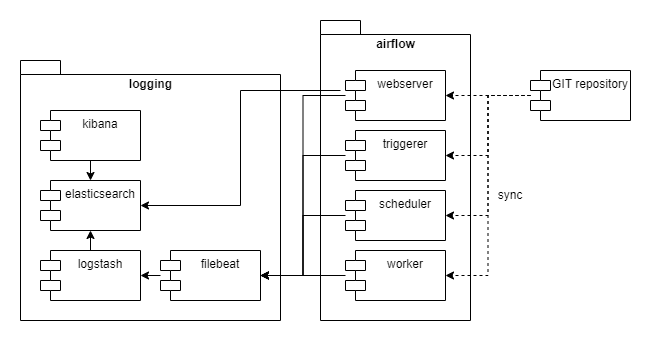
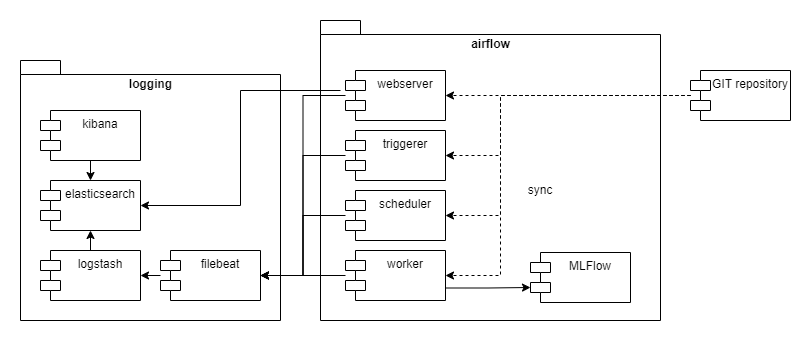
chore: Update deployment diagram

diff --git a/README.md b/README.md
@@ -272,4 +272,8 @@ Kubernetes cluster:
 * logstash - Enriches data before pushing it to elasticsearch.
 * filebeat - Scrapes log data from the airflow components.
 
+#### Machine learning components
+
+* mlflow - Tracking of model training runs and stores registered models
+
 [DATASET_URL]: https://puc.overheid.nl/PUC/Handlers/DownloadDocument.ashx?identifier=PUC_656543_22&versienummer=1
